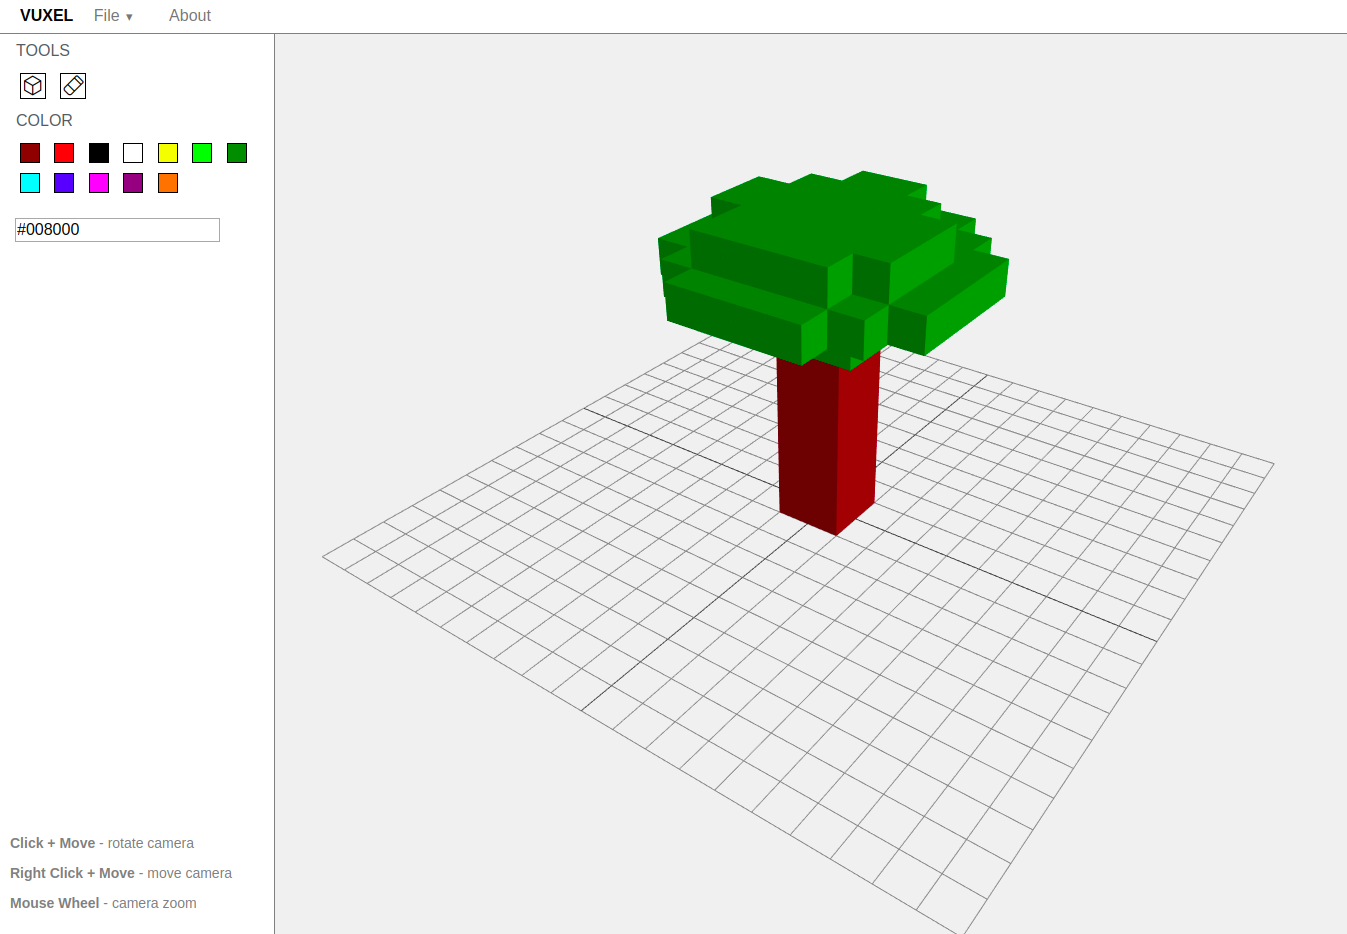
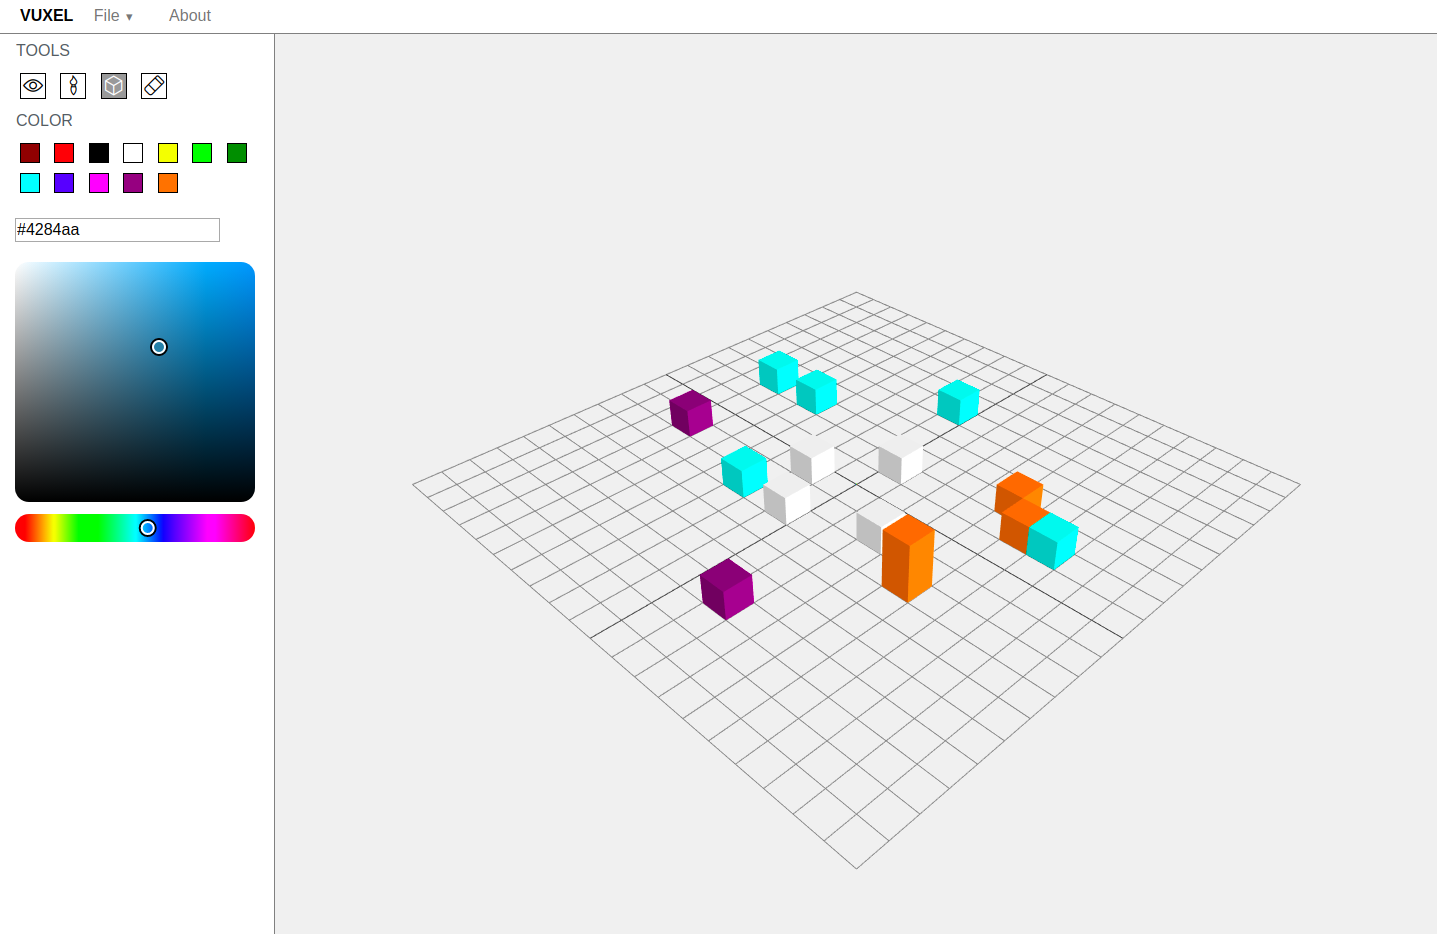
New color picker

diff --git a/src/plugins/color-picker.js b/src/plugins/color-picker.js
@@ -11,13 +11,31 @@ export class ColorPicker extends AbstractPlugin {
 
     this.avaliableTools = ['single_voxel', 'paint_brush'];
 
+    this.colorPicker = new window.iro.ColorPicker('#iro-color-picker', {
+      width: 240,
+      layout: [
+        {
+          component: window.iro.ui.Box,
+        },
+        {
+          component: window.iro.ui.Slider,
+          options: {
+            sliderType: 'hue',
+          },
+        },
+      ],
+    });
+    this.colorPicker.on('input:change', (color) => this.onChangeColor(color));
+
     this.colorInput = document.getElementById('brush-color-input');
     this.presets = document.querySelectorAll('.brush-color');
     this.containers = document.querySelectorAll('[data-plugin-color-picker]');
 
     if (this.plugins.tools) {
       if (this.avaliableTools.includes(this.plugins.tools.currentToolName)) {
-        this.colorInput.value = `#${this.plugins.tools.currentTool.mainMaterial.color.getHexString()}`;
+        const color = this.plugins.tools.currentTool.mainMaterial.color.getHexString();
+        this.colorInput.value = `#${color}`;
+        this.colorPicker.color.hexString = `#${color}`;
       }
       this.setupListeners();
     } else {
@@ -29,6 +47,7 @@ export class ColorPicker extends AbstractPlugin {
       preset.addEventListener('click', () => {
         this.setBrushColor(preset.dataset.color);
         this.colorInput.value = preset.dataset.color;
+        this.colorPicker.color.hexString = preset.dataset.color;
       });
     });
 
@@ -47,12 +66,19 @@ export class ColorPicker extends AbstractPlugin {
     });
   }
 
+  onChangeColor(color) {
+    this.setBrushColor(color.hexString);
+    this.colorInput.value = color.hexString;
+  }
+
   setupListeners() {
     const toolsPlugin = this.plugins.tools;
 
     toolsPlugin.on('tool_initialized', (toolName, tool) => {
       if (this.avaliableTools.includes(toolName)) {
-        this.colorInput.value = `#${tool.mainMaterial.color.getHexString()}`;
+        const color = tool.mainMaterial.color.getHexString();
+        this.colorInput.value = `#${color}`;
+        this.colorPicker.color.hexString = color;
         this.show();
       } else {
         this.hide();

diff --git a/src/ui-parts/modals/about-modal.html b/src/ui-parts/modals/about-modal.html
@@ -1,6 +1,6 @@
 <div id="modal-about" aria-hidden="true" class="ui-modal">
   <div class="modal-overlay" tabindex="-1" data-micromodal-close>
-    <div class="modal-container" role="dialog" aria-modal="true" aria-labelledby="modal-about-title" >
+    <div class="modal-container" style="max-width: 500px" role="dialog" aria-modal="true" aria-labelledby="modal-about-title" >
       <header>
         <h3 id="modal-about-title">
           About
@@ -9,7 +9,14 @@
       </header>
       <div class="modal-content" id="modal-about-content">
         <p>Created by <a href="https://github.com/Perkovec">Perkovec</a></p>
-        <p>Icons made by <a href="https://www.flaticon.com/authors/freepik" title="Freepik">Freepik</a> from <a href="https://www.flaticon.com/" title="Flaticon">www.flaticon.com</a></p>
+        <div>
+          Icons made by <a href="https://www.flaticon.com/authors/freepik" title="Freepik">Freepik</a>,
+          <a href="https://www.flaticon.com/authors/roundicons" title="Roundicons">Roundicons</a>,
+          <a href="https://www.flaticon.com/authors/pixel-perfect" title="Pixel perfect">Pixel perfect</a>,
+          <a href="https://www.flaticon.com/authors/kiranshastry" title="Kiranshastry">Kiranshastry</a>,
+          <a href="https://www.flaticon.com/authors/good-ware" title="Good Ware">Good Ware</a>
+          from <a href="https://www.flaticon.com/" title="Flaticon">www.flaticon.com</a>
+        </div>
       </div>
     </div>
   </div>

diff --git a/src/index.js b/src/index.js
@@ -30,6 +30,8 @@ const assets = [
 
   // LIBS
   import('micromodal/dist/micromodal.min.js'),
+  import('tippy.js'),
+  import('@jaames/iro'),
 
   // PLUGINS
   import('./plugins/file-manager/file-manager.js'),
@@ -51,6 +53,8 @@ progressPromise(assets, update)
 
     // LIBS
     MicroModal,
+    tippy,
+    iro,
 
     // PLUGINS
     { FileManager },
@@ -59,6 +63,10 @@ progressPromise(assets, update)
     { CameraControl },
   ]) => {
     MicroModal.init();
+    Object.assign(window, {
+      tippy: tippy.default,
+      iro: iro.default,
+    });
 
     const plugins = [
       FileManager,

diff --git a/src/plugins/tools/index.js b/src/plugins/tools/index.js
@@ -1,4 +1,3 @@
-import tippy from 'tippy.js';
 import { AbstractPlugin } from '../../core/plugin.abstract';
 import { SingleVoxel } from './single-voxel';
 import { RemoveVoxel } from './remove-voxel';
@@ -30,7 +29,7 @@ export class Tools extends AbstractPlugin {
 
       const toolInstance = this.toolInstances[toolName];
       if (toolInstance && toolInstance.meta && toolInstance.meta.alt) {
-        tippy(tool, {
+        window.tippy(tool, {
           delay: [500, 250],
           placement: 'top',
           content: toolInstance.meta.alt,

diff --git a/src/ui-parts/sidebar.html b/src/ui-parts/sidebar.html
@@ -22,6 +22,7 @@
       <button class="brush-color purple" data-color="#800080"></button>
       <button class="brush-color orange" data-color="#FF8000"></button>
       <input type="text" id="brush-color-input" class="brush-color-input" />
+      <div id="iro-color-picker"></div>
     </li>
   </ul>
 </div>

diff --git a/README.md b/README.md
@@ -2,13 +2,13 @@
 
 [![Build Status](https://travis-ci.org/Perkovec/Vuxel.svg?branch=master)](https://travis-ci.org/Perkovec/Vuxel) [![Greenkeeper badge](https://badges.greenkeeper.io/Perkovec/Vuxel.svg)](https://greenkeeper.io/)
 
-Version 0.0.3
+Version 0.0.4
 
 By Ilya Karpuk perkovec24@gmail.com
 
 ## About
 
-Vuxel - tool for created 3D models using voxels.
+Vuxel - tool for creating 3D models using voxels.
 
 ![Demo](demo.png)
 
@@ -36,9 +36,12 @@ npm run build
 - [x] Camera rotation
 - [ ] Orientation indicator and controller
 - [x] Painting tools
-- [ ] Advanced color picker
+- [x] Advanced color picker
 - [x] Export/import models
 - [ ] Layers
+- [ ] Tool for bulk creation of voxels
+- [ ] Keybindings for tools
+- [ ] Dark theme (need help)
 
 ## Licence
 
